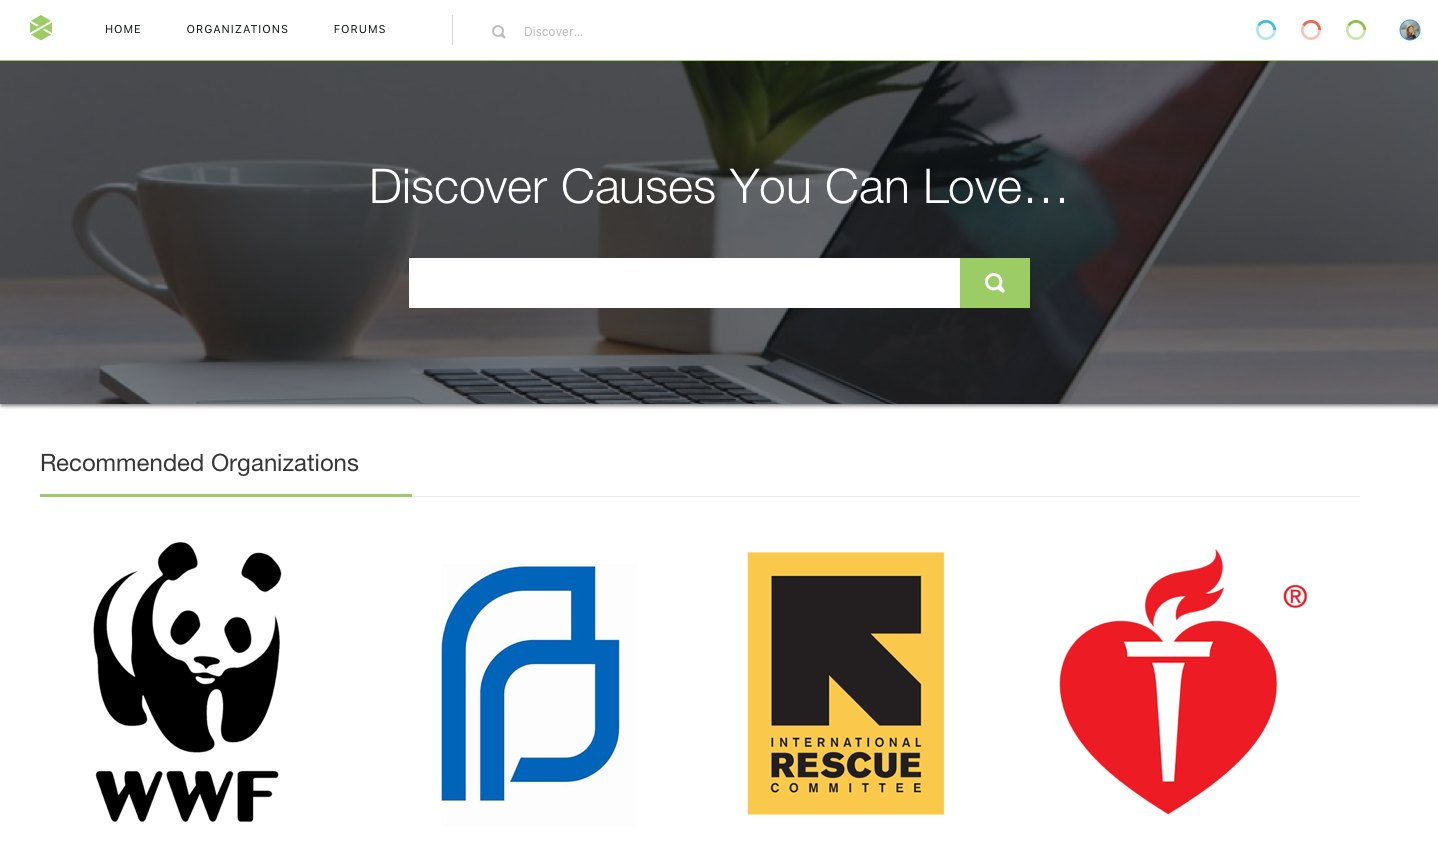
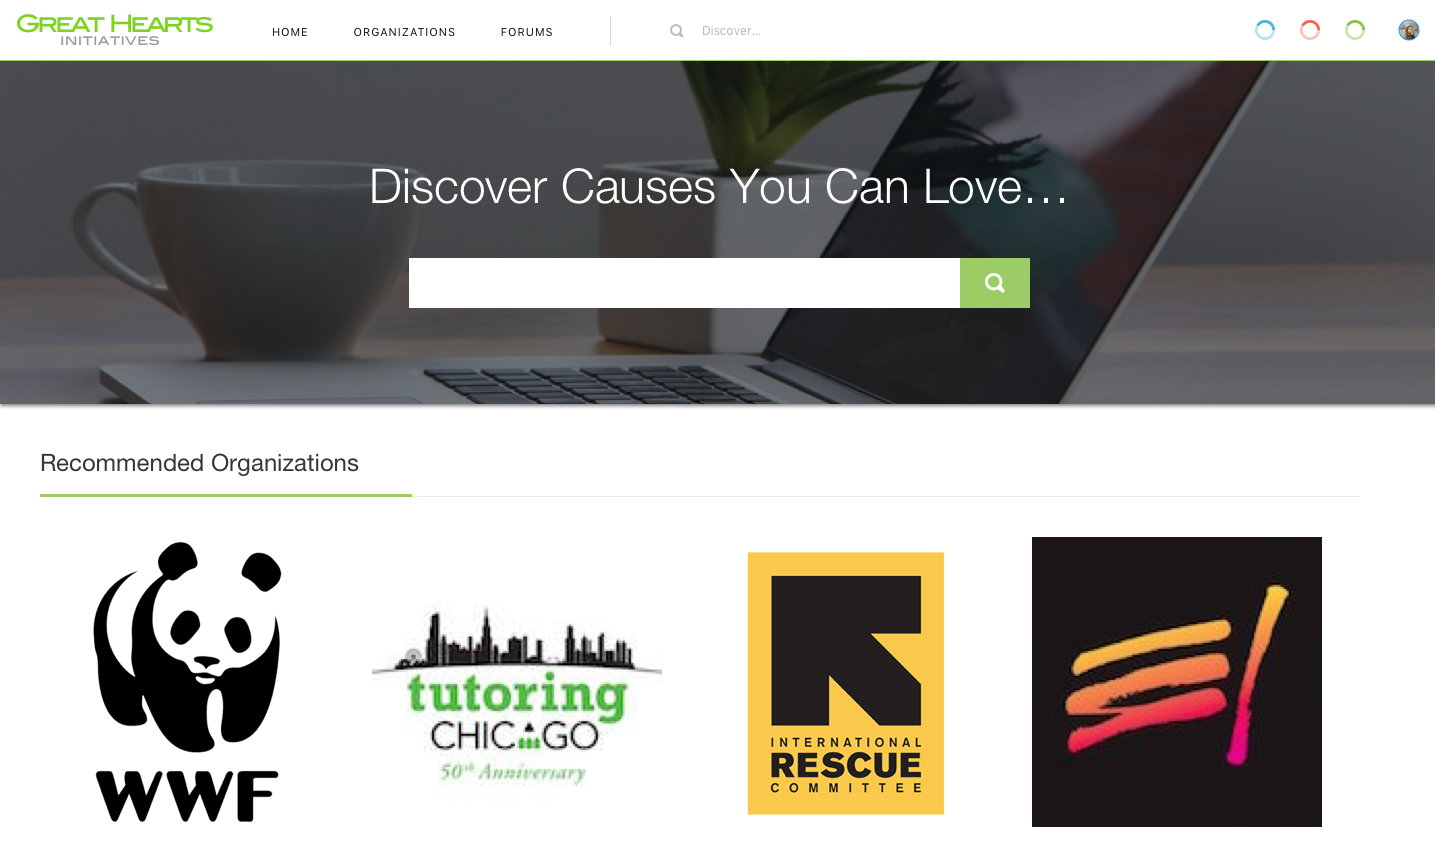
update screenshots

diff --git a/index.html b/index.html
@@ -633,8 +633,8 @@
                             <img class="rounded-x" src="assets/img/thumb/tutorChicago2.jpg"/>
                             <div class="overflow-h">
                                 <h3 class="no-top-space"><a href="#">GHI: Givers’ Choice Awards</a></h3>
-                                <p>Great Hearts community members select causes that will receive
-                                    sponsor and employer awards.
+                                <p>Help your favorite causes to receive
+                                    monetary awards.
                                 </p>
                             </div>
                         </div>
@@ -775,7 +775,7 @@
                     <a class="btn-u btn-brd btn-brd-hover btn-u-dark" href="#">Sponsor</a>
                 </div>
                 <div class="col-md-6 md-margin-bottom-50">
-                    <img alt="" src="assets/img/main/img12.jpg" class="img-responsive wow animated fadeInUp">
+                    <img alt="" src="assets/img/screenshots/AwardPage.png" class="img-responsive img-thumbnail">
                 </div>
             </div><!--/end row-->
         </div>
